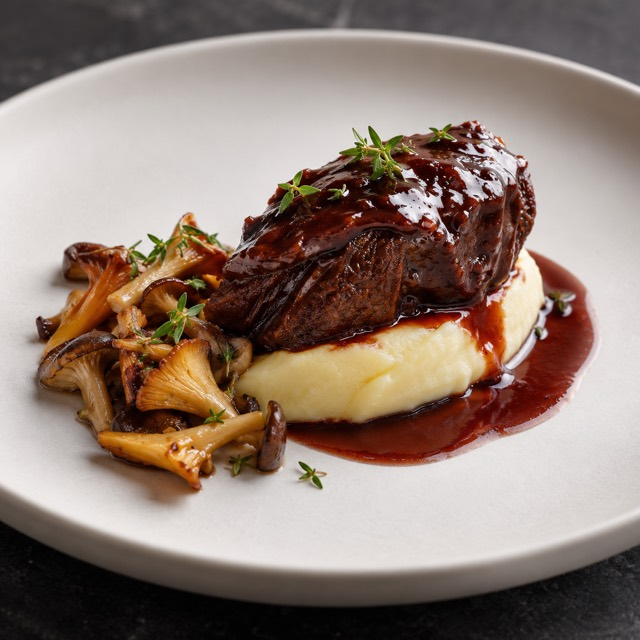
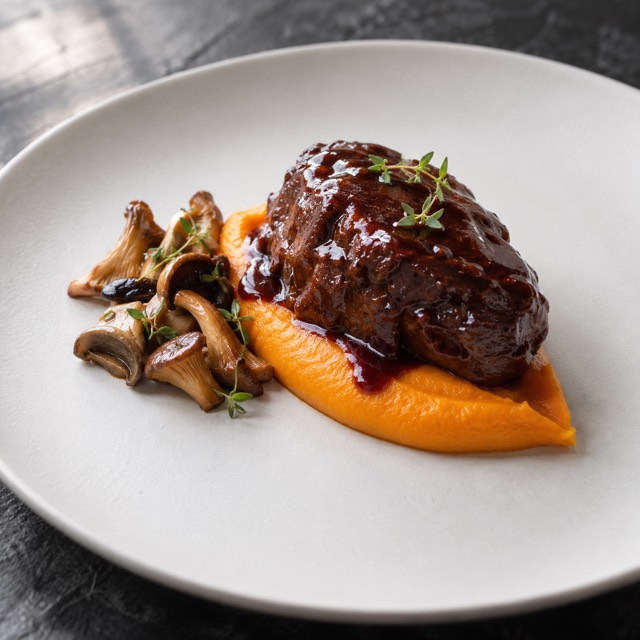
Fiestas: Año Nuevo – gambas al ajillo back in pica (white plate), canelones with plain bechamel, carrillera with sweet potato purée, arroz con bogavante in pieces; photos

diff --git a/fiestas/menus.js b/fiestas/menus.js
@@ -81,6 +81,7 @@ window.FIESTAS = {
       pica: { key: 'pica1b', items: [
         { es: 'Tabla de embutidos selectos de Galicia y queso de tetilla con tostas de pan', plate: true },
         { es: 'Croquetas caseras variadas (jamón ibérico, boletus y pollo rustido)', perPerson: 2 },
+        { es: 'Gambas al ajillo con guindilla', plate: true },
         { es: 'Pan de coca con tomate, aceite de oliva virgen extra y anchoas del Cantábrico', perPerson: 2 }
       ] },
       menu: {
@@ -88,12 +89,12 @@ window.FIESTAS = {
           { key: 'cabr1', es: 'Ensalada de queso de cabra gratinado con brotes tiernos, manzana, nueces y vinagreta de miel' },
           { key: 'mari1', es: 'Crema de marisco con vieira a la plancha y picatostes' },
           { key: 'pulp1', es: 'Pulpo a la brasa sobre parmentier de patata con pimentón de la Vera y aceite de oliva' },
-          { key: 'cane1', es: 'Canelones negros de rape y gambas con bechamel de marisco gratinada' }
+          { key: 'cane1', es: 'Canelones negros de rape y gambas gratinados con bechamel' }
         ],
         segundo: [
-          { key: 'carr1', es: 'Carrillera de ternera estofada al vino tinto con puré de patata y setas salteadas' },
+          { key: 'carr1', es: 'Carrillera de ternera estofada al vino tinto con puré de boniato y setas salteadas' },
           { key: 'cazu1', es: 'Cazuela de merluza y rape con mejillones, almejas y gambas al azafrán' },
-          { key: 'arrb1', es: 'Arroz meloso de marisco con medio bogavante por persona' },
+          { key: 'arrb1', es: 'Arroz meloso de marisco con bogavante' },
           { key: 'pato1', es: 'Confit de pato con salsa de frutos rojos, patatas gajo, zanahorias baby y costillas de maíz a la brasa' }
         ],
         postre: [

diff --git a/docs/FIESTAS-PEDIDOS-2026-11-05.md b/docs/FIESTAS-PEDIDOS-2026-11-05.md
@@ -132,3 +132,4 @@
 - Segundos: el chuletón (`chul1`) sale del menú y con él la elección de punto; entra `carr1` Carrillera al vino tinto. El pollo relleno pasa a `pato1` Confit de pato.
 - Postres: la mousse de turrón pasa a `coco1` Helado de coco sobre crema catalana.
 - El soporte de punto (`punto: true`) se queda en el código por si vuelve un plato a la brasa.
+- Ajustes (mismo día): vuelven las gambas al ajillo a la pica (en plato blanco, sin cazuela); canelones con bechamel normal; carrillera con puré de boniato; el arroz pasa a "con bogavante" (bogavante en trozos, no medio por persona).
